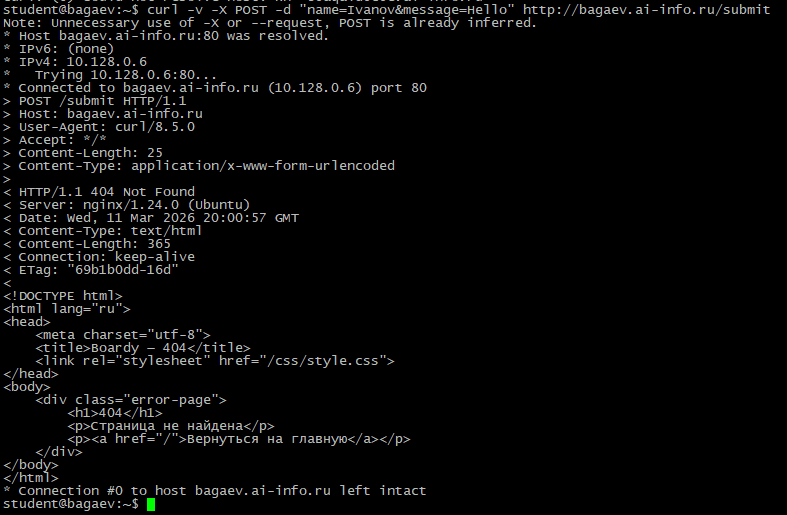
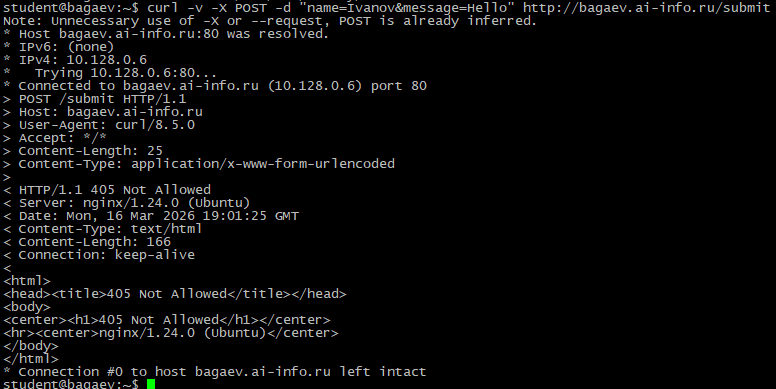
fix 11 question

Changed region(s): [[0.0, 0.0, 0.9897, 1.0]]

diff --git a/Lab/Lab4/Report.md b/Lab/Lab4/Report.md
@@ -236,39 +236,30 @@ Note: Unnecessary use of -X or --request, POST is already inferred.
 * IPv4: 10.128.0.6
 *   Trying 10.128.0.6:80...
 * Connected to bagaev.ai-info.ru (10.128.0.6) port 80
-> POST /submit HTTP/1.1 - метод (POST)
+> POST /submit HTTP/1.1 - *Метод запроса*
 > Host: bagaev.ai-info.ru
 > User-Agent: curl/8.5.0
 > Accept: */*
 > Content-Length: 25
-> Content-Type: application/x-www-form-urlencoded - Content-Type запроса
+> Content-Type: application/x-www-form-urlencoded - *Content-Type*
 >
-< HTTP/1.1 404 Not Found - код ответа
+< HTTP/1.1 405 Not Allowed  - *Код ответа*
 < Server: nginx/1.24.0 (Ubuntu)
-< Date: Wed, 11 Mar 2026 20:00:57 GMT
+< Date: Mon, 16 Mar 2026 19:01:25 GMT
 < Content-Type: text/html
-< Content-Length: 365
+< Content-Length: 166
 < Connection: keep-alive
-< ETag: "69b1b0dd-16d"
 <
-<!DOCTYPE html> - тело запроса
-<html lang="ru">
-<head>
-    <meta charset="utf-8">
-    <title>Boardy — 404</title>
-    <link rel="stylesheet" href="/css/style.css">
-</head>
+<html>
+<head><title>405 Not Allowed</title></head>
 <body>
-    <div class="error-page">
-        <h1>404</h1>
-        <p>Страница не найдена</p>
-        <p><a href="/">Вернуться на главную</a></p>
-    </div>
+<center><h1>405 Not Allowed</h1></center>
+<hr><center>nginx/1.24.0 (Ubuntu)</center>
 </body>
 </html>
 * Connection #0 to host bagaev.ai-info.ru left intact
 
-В конфигурации nginx не имеет настроенного пути для /submit - поэтому ошибка 404
+Не реализовано Post метода - поэтому ошибка 405
 
 Скриншоты:
 
